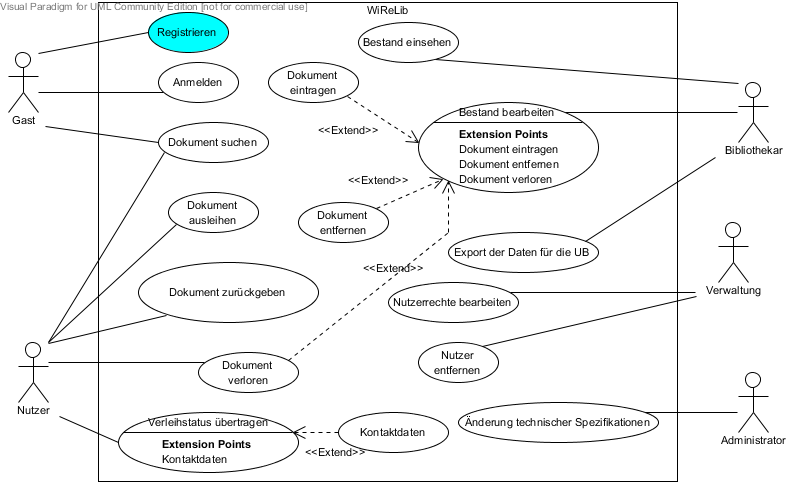
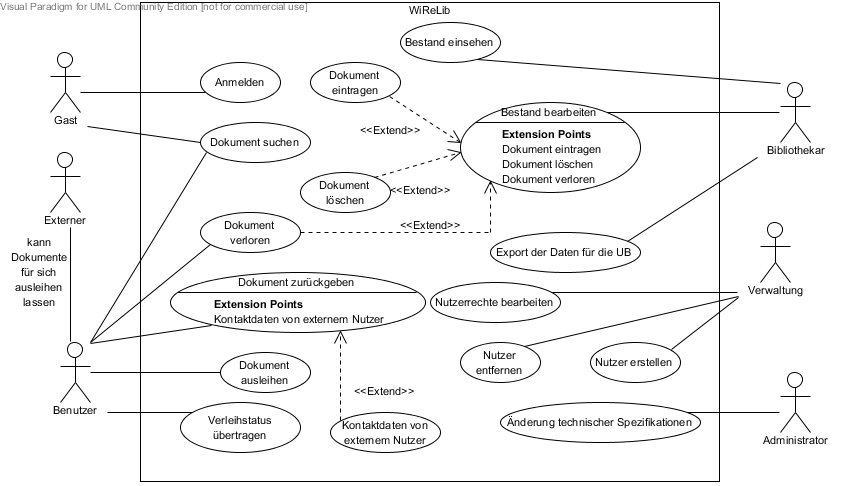
usecase + produktuebersicht

diff --git a/doc/Pflichtenheft/inhalt/produktuebersicht.tex b/doc/Pflichtenheft/inhalt/produktuebersicht.tex
@@ -1,8 +1,33 @@
 % Kapitel 3
 %-------------------------------------------------------------------------------
 \chapter{Produktübersicht}
-Dieser Abschnitt hat die Aufgabe, die Funktionalität des zu entwickelnden
-Systems  grafisch mit Hilfe von Use-Case-Diagrammen mit kurzer verbaler
-Beschreibung zu beschreiben. Es sind so viele Use-Case-Diagramme einzufügen,
-wie zur vollständigen und übersichtlichen Beschreibung der Systemfunktionalität
-notwendig sind.
+
+\begin{figure}[h]
+\centering
+\includegraphics[width=0.8\linewidth]{bilder/use-case.png}
+\caption[Use-Case-Diagramm]{Use-Case-Diagramm}
+\end{figure}
+
+
+Beschreibung:
+
+Benutzer die nicht angemeldet sind werden als Gäste geführt.\\
+Gäste können sich anmelden und sind dann Nutzer. \\
+Auch können Gäste Dokumente suchen und herausfinden ob sie vorhanden sind, oder ob sie bereits verliehen wurden.\\
+\\
+Ein Nutzer darf wie ein Gast nach Dokumenten suchen.\\
+Zusätzlich darf er Dokumente ausleihen und muss diese auch wieder zurückgeben.\\
+Wenn ihm ein Dokument verloren geht sollte er dies melden.\\
+Auch darf ein Nutzer ein ausgeliehenes Dokument weitergeben.\\
+Dabei wird der Verleihstatus auf die andere Person übertragen.\\
+Ist dies eine Auswärtige Person so müssen die Kontaktdaten hinterlegt werden.\\
+\\
+Der Bibliothekar kann den Bestand der Dokumente einsehen und ihn bearbeiten.\\
+Das heißt das er neue Dokumente eintragen kann, aus der Suchoption entfernen, oder ein\\
+Dokument als verloren markieren, sodass falls möglich, neu bestellt werden kann.\\
+Der Bibliothekar kann durch einen Button eine Datei exportieren welche für die UB lesbar ist.\\
+Somit kann auch von der UB aus ein gesuchtes Dokument gefunden werden.\\
+\\
+Die Verwaltung darf Nutzer erstellen, Nutzerrechte bearbeiten und gegebenenfalls Nutzer entfernen.\\
+\\
+Der Administrator hat vollen Zugriff auf das System und kann alle technische Spezifikationen vornehmen.\\
